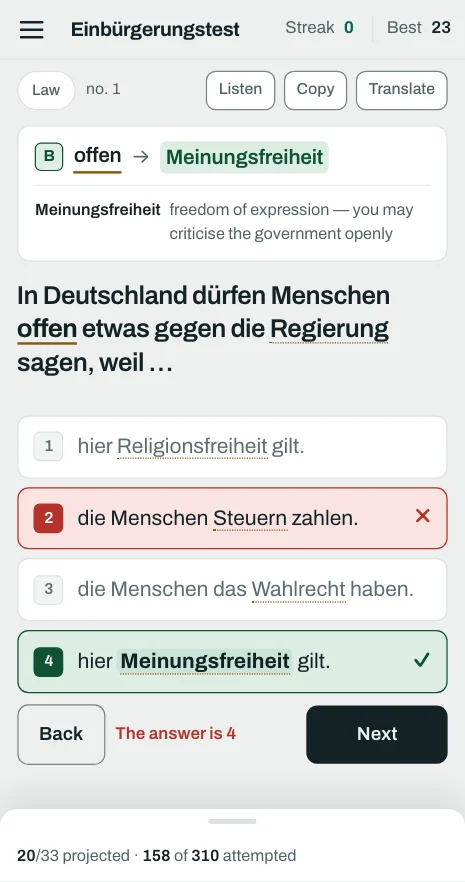
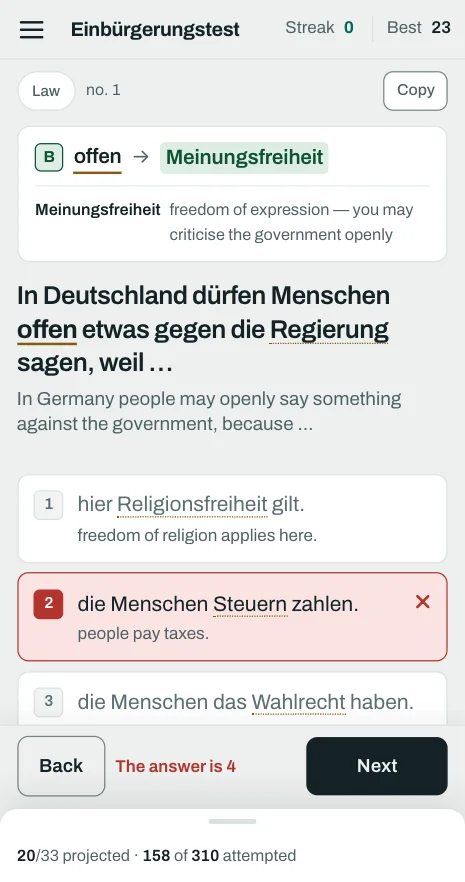
📝 docs: re-shoot the screenshots without the Listen button (#20)
#18 took out the Listen button and the Read aloud settings, but four of
the README's screenshots still showed Listen in the question toolbar:
practice, mobile, image-question and glossary. They are re-shot from main
with #18 merged in, so the toolbar now holds Copy alone (and Bigger on a
picture question). Translate is gone too, since #19.

Same sizes, framing and learner as #15: headless Chrome at 1280px wide
and 1.25x, the phone at 375x711, light mode, Berlin, best streak 23, and
the same 158 of 310 answered, read cell by cell off the old map. Lossy
webp at q85, close to the old file sizes. timeline.webp never showed the
toolbar and is unchanged.

After a miss the practice and phone views now show #19's English
subtitles, so their alt text says so. On the phone they push the green
answer below the fold; the alt text names the answer beside Next instead.

diff --git a/README.md b/README.md
@@ -17,7 +17,7 @@ No build step, no server, no account, no tracking. Open it and it works, includi
 ![Code licence](https://img.shields.io/badge/code-MIT-0B6357?style=flat-square)
 
 <a href="https://jadrizk.github.io/einbuergerungstest-trainer/">
-  <img src="docs/practice.webp" alt="The practice view after a miss, with the menu on the left grouped into Practise, Learn and Settings: the question's hook above it, the German question with civic terms underlined for English glosses, the wrong answer marked in red and the correct one in green, and a progress map of all 310 questions along the bottom, its cells running from slashed reds through a dashed grey to greens" width="880">
+  <img src="docs/practice.webp" alt="The practice view after a miss, with the menu on the left grouped into Practise, Learn and Settings: the question's hook above it, the German question with civic terms underlined for English glosses, an English subtitle under the question and each answer, the wrong answer marked in red and the correct one in green, and a progress map of all 310 questions along the bottom, its cells running from slashed reds through a dashed grey to greens" width="880">
 </a>
 
 </div>
@@ -103,7 +103,7 @@ Three ways to understand the questions rather than memorise them.
 
 ## On your phone
 
-<img src="docs/mobile.webp" alt="The app on a phone: the controls collapsed behind a menu button, the streak in the top bar, an answered question with its hook, the wrong choice in red and the correct one in green, and the progress sheet resting at the bottom with a projected score" width="300" align="right">
+<img src="docs/mobile.webp" alt="The app on a phone: the controls collapsed behind a menu button, the streak in the top bar, an answered question with its hook and English subtitles, the wrong choice in red, the right answer named beside Next, and the progress sheet resting at the bottom with a projected score" width="300" align="right">
 
 Open the link and use **Add to Home Screen**. It then launches like an app and works with no
 connection.
